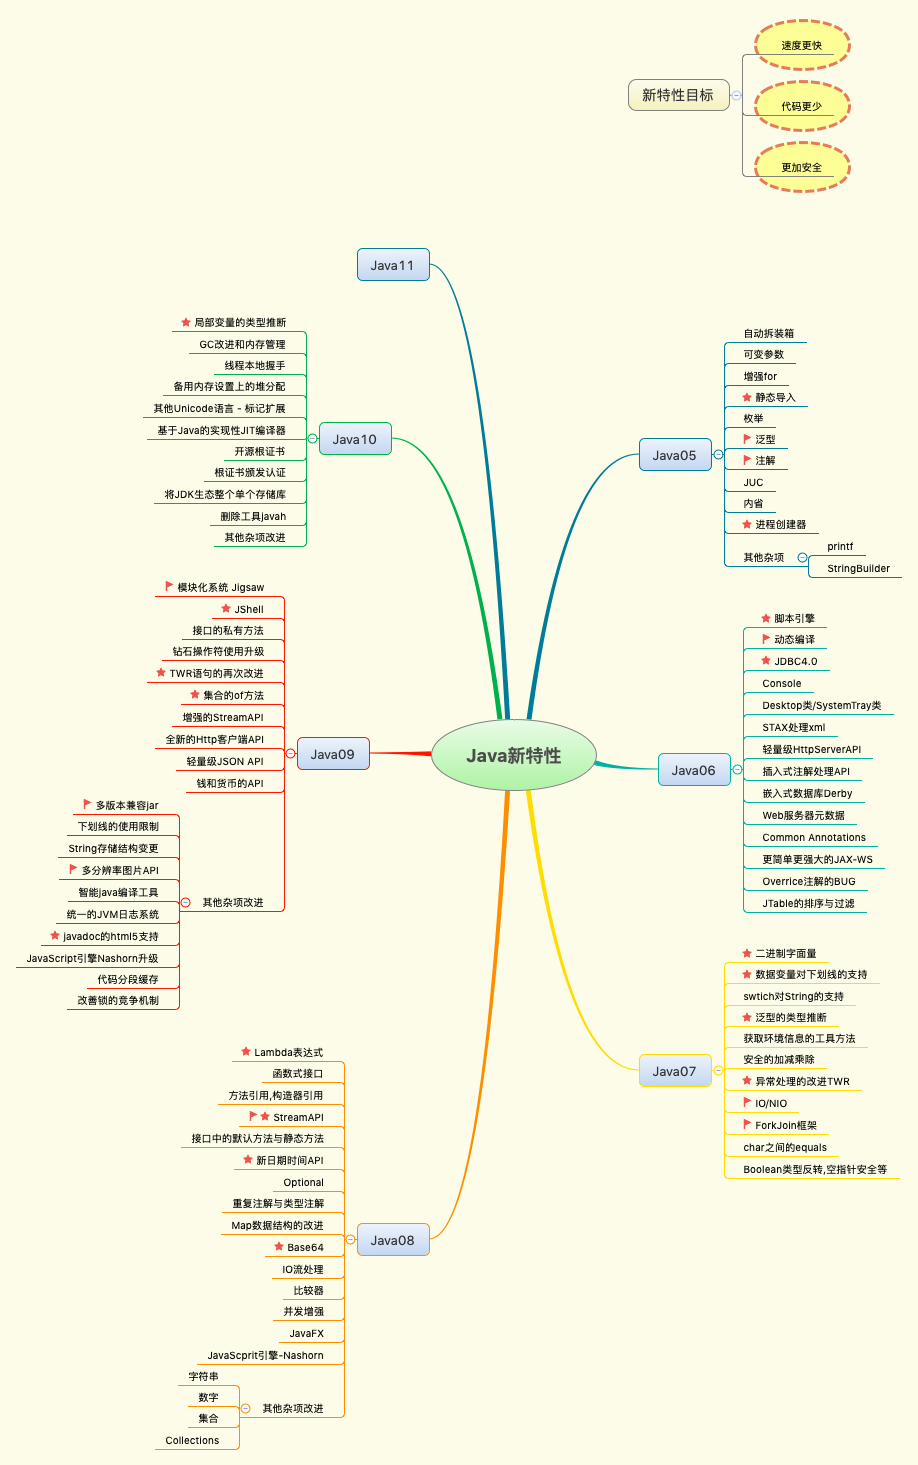
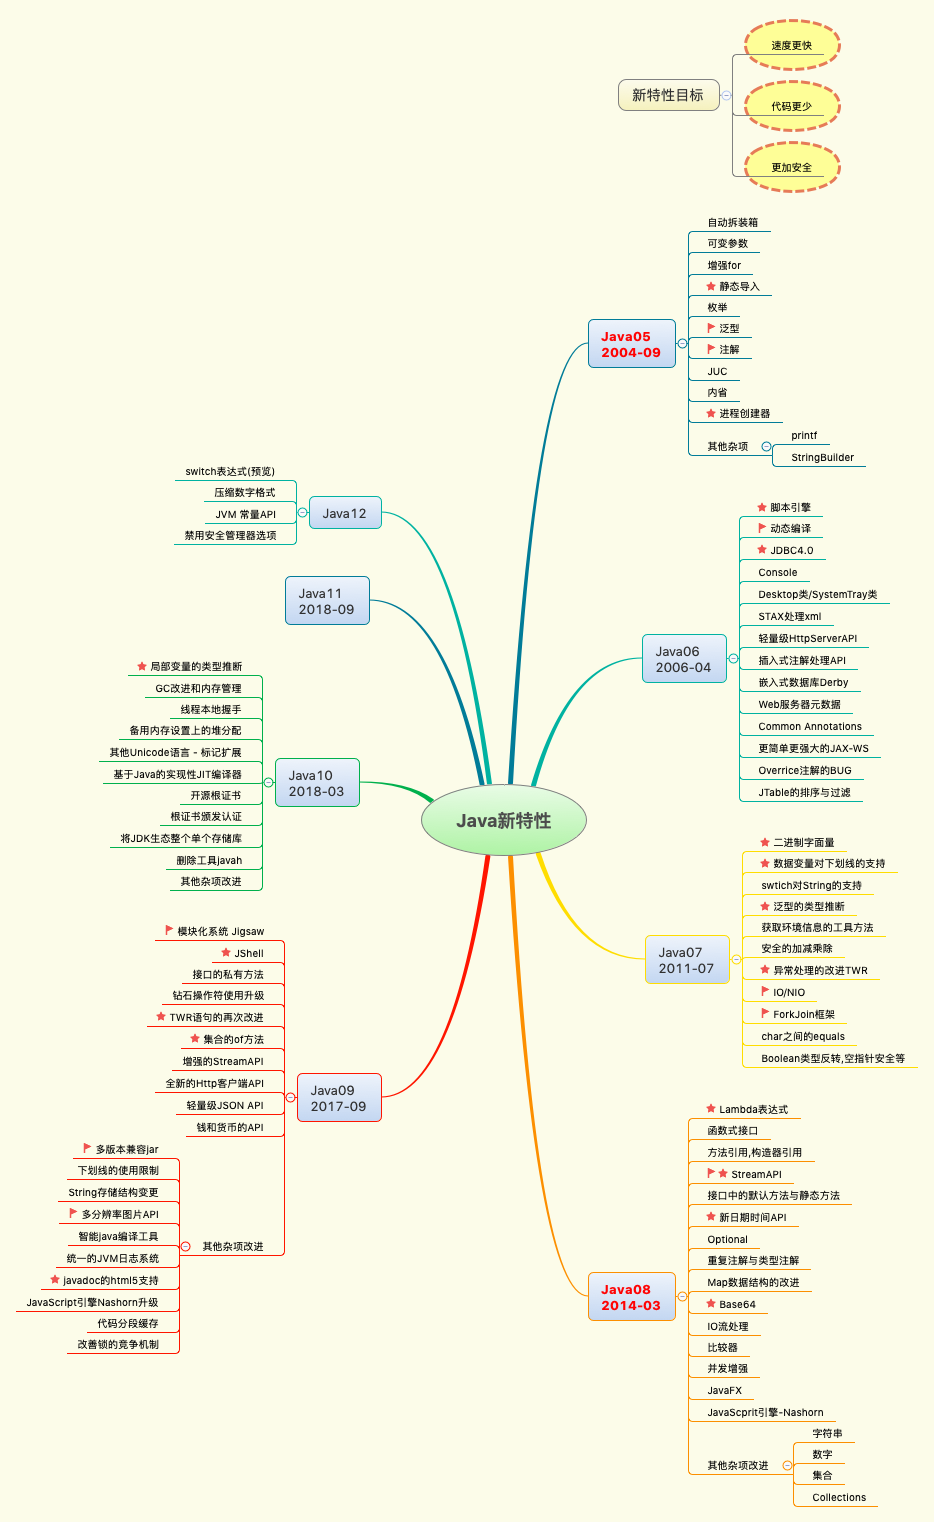
新特性图片更新

diff --git a/README.md b/README.md
@@ -18,7 +18,7 @@ Java新特性 5，6，7，8，9，10，11，12
 - 更加安全
 
 ## 项目目标
-1. 列举Java5-11版本的关键新特性
+1. 列举Java5-12版本的关键新特性
 2. 对每个新特性进行全面的阐述与代码示例
 3. 在doc文件夹中生成xmind,ppt,pdf,javadoc等离线参考文档
 
